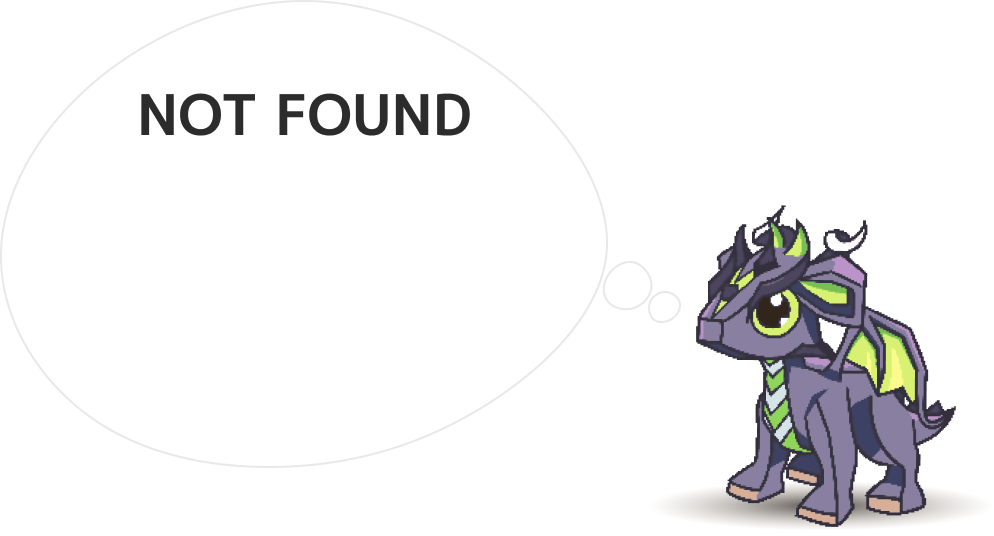
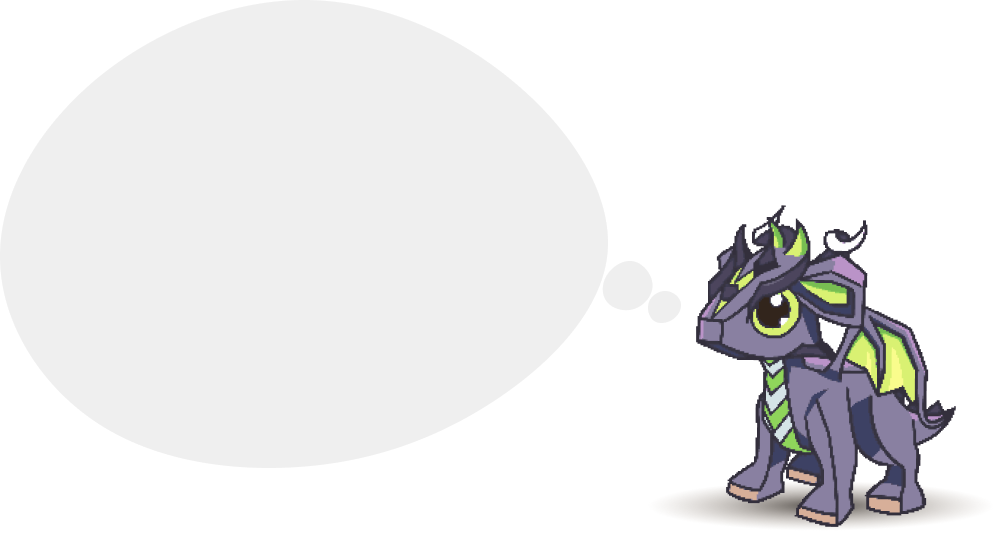
feat: 404page

Changed region(s): [[0.2807, 0.1493, 0.499, 0.2687], [0.1247, 0.1493, 0.2495, 0.2687]]

diff --git a/frontend/src/pages/notFound/NotFound.tsx b/frontend/src/pages/notFound/NotFound.tsx
@@ -1,9 +1,60 @@
 import React, { FC } from 'react'
+import { AuthHeader } from 'components/ui/header/AuthHeader'
+import styled from 'styled-components'
 
 export const NotFound: FC = () => {
   return (
-    <div>
-      <p>404 not found</p>
-    </div>
+    <StyledContainer>
+      <AuthHeader />
+      <StyledNotFoundContainer>
+        <StyledH1>Not Found</StyledH1>
+        <StyledH2>ページが見つかりません。</StyledH2>
+        <StyledTextContainer>
+          <p>申し訳ありません。アクセスされたページは見つかりませんでした。</p>
+          <p>The requested URL was not found on this server.</p>
+          <p>
+            入力したアドレスがまちがっているか、
+            <br />
+            ページが移動もしくは削除されているかもしれません。
+          </p>
+        </StyledTextContainer>
+      </StyledNotFoundContainer>
+    </StyledContainer>
   )
 }
+
+const StyledContainer = styled.div`
+  background-color: ${({ theme }) => theme.COLORS.WHITE};
+  height: 100vh;
+`
+const StyledNotFoundContainer = styled.div`
+  position: relative;
+  top: 16vh;
+  min-height: 536px;
+  width: 1050px;
+  padding: 0 20px;
+  margin: 0 auto;
+  background: url('/images/notfound.png') 40px top no-repeat;
+`
+
+const StyledH1 = styled.h1`
+  position: absolute;
+  top: 64px;
+  left: 200px;
+  font-size: ${({ theme }) => theme.FONT_SIZES.SIZE_60};
+`
+const StyledH2 = styled.h2`
+  position: absolute;
+  top: 148px;
+  left: 230px;
+  font-size: ${({ theme }) => theme.FONT_SIZES.SIZE_18};
+`
+const StyledTextContainer = styled.div`
+  position: absolute;
+  top: 200px;
+  left: 150px;
+  width: 400px;
+  font-size: ${({ theme }) => theme.FONT_SIZES.SIZE_12};
+  line-height: 2;
+  text-align: center;
+`
